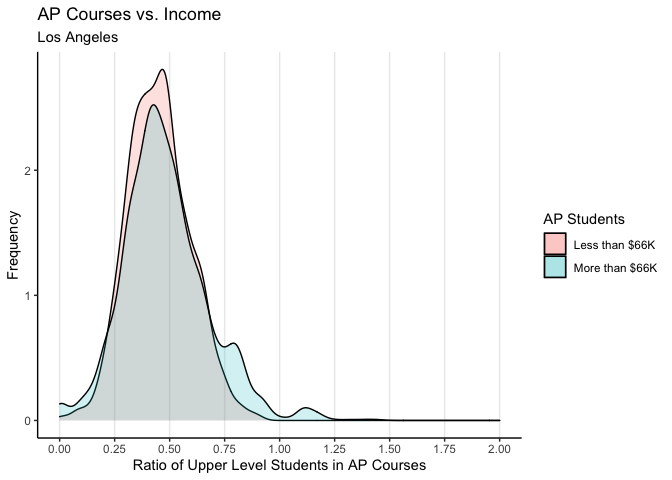
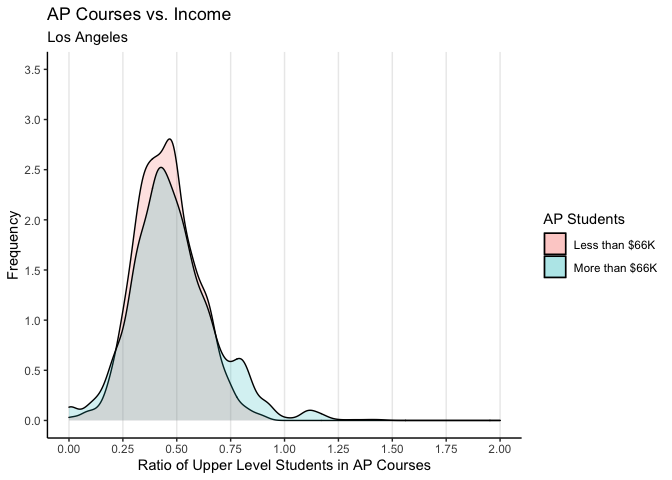
LA Added

diff --git a/2. Graph Creation/LA/LA-Final-Graphs.md b/2. Graph Creation/LA/LA-Final-Graphs.md
@@ -441,6 +441,7 @@ ggplot()+
     fill = 'AP Students'
   )+
   scale_x_continuous(limits = c(0,2), breaks = seq(0,2,.25))+
+  scale_y_continuous(limits = c(0,3.5), breaks = seq(0,3.5,.5))+
   theme_classic()+
   theme(panel.grid.major.x=element_line())
 ```
@@ -460,6 +461,7 @@ ggplot()+
     fill = 'AP Students'
   )+
   scale_x_continuous(limits = c(0,2), breaks = seq(0,2,.25))+
+  scale_y_continuous(limits = c(0,3.5), breaks = seq(0,3.5,.5))+
   theme_classic()+
   theme(panel.grid.major.x=element_line())
 ```
